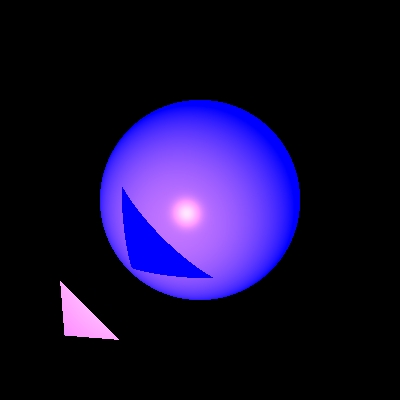
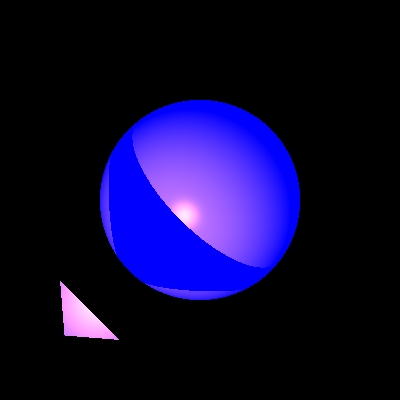
begin stage 5

diff --git a/IME5780-E1-5840-6639/src/unittests/ShadowTests.java b/IME5780-E1-5840-6639/src/unittests/ShadowTests.java
@@ -81,7 +81,7 @@ public class ShadowTests {
         scene.addGeometries(new Sphere(new Color(java.awt.Color.BLUE), new Material(0.5, 0.5, 30), //
                         60, new Point3D(0, 0, 200)), //
                 new Triangle(new Color(java.awt.Color.BLUE), new Material(0.5, 0.5, 30), //
-                        new Point3D(-70, 40, 0), new Point3D(-40, 70, 0), new Point3D(-68, 68, 4)));
+                        new Point3D(-50, 20, 0), new Point3D(-20, 50, 0), new Point3D(-48, 48, 4)));
 
         scene.addLights(new SpotLight(new Color(400, 240, 0), //
                 new Point3D(-100, 100, -200), new Vector(1, -1, 3), 1, 1E-5, 1.5E-7));
@@ -110,7 +110,7 @@ public class ShadowTests {
                         new Point3D(-70, 40, 0), new Point3D(-40, 70, 0), new Point3D(-68, 68, 4)));
 
         scene.addLights(new SpotLight(new Color(400, 240, 0), //
-                new Point3D(-100, 100, -200), new Vector(1, -1, 3), 1, 1E-5, 1.5E-7));
+                new Point3D(-90, 90, -170), new Vector(1, -1, 3), 1, 1E-5, 1.5E-7));
 
         ImageWriter imageWriter = new ImageWriter("sphereTriangleSpot1", 200, 200, 400, 400);
         Render render = new Render(imageWriter, scene);
@@ -136,7 +136,7 @@ public class ShadowTests {
                         new Point3D(-70, 40, 0), new Point3D(-40, 70, 0), new Point3D(-68, 68, 4)));
 
         scene.addLights(new SpotLight(new Color(400, 240, 0), //
-                new Point3D(-100, 100, -200), new Vector(1, -1, 3), 1, 1E-5, 1.5E-7));
+                new Point3D(-75, 75, -65), new Vector(1, -1, 3), 1, 1E-5, 1.5E-7));
 
         ImageWriter imageWriter = new ImageWriter("sphereTriangleSpot2", 200, 200, 400, 400);
         Render render = new Render(imageWriter, scene);
